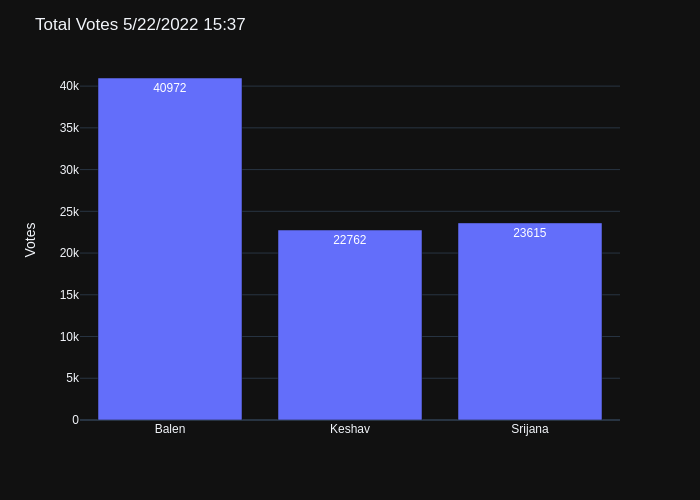
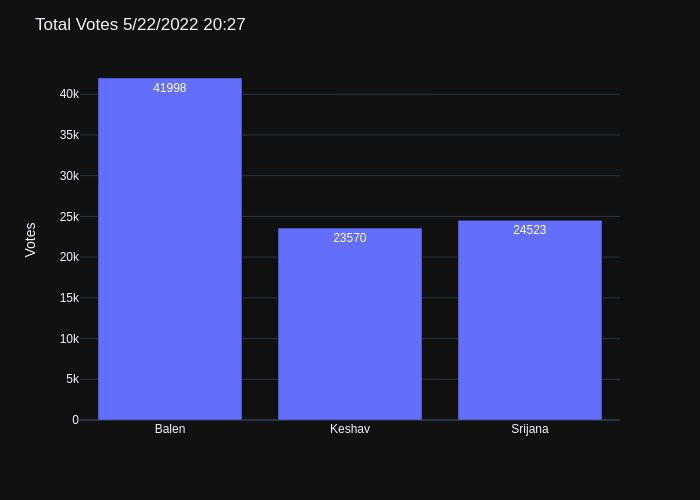
add data

diff --git a/README.md b/README.md
@@ -1,4 +1,4 @@
-## Last Update: 5/22/2022 15:37
+## Last Update: 5/22/2022 20:27
 
 ## Balen's Lead against Keshav Sthapit and Srijana Singh
 ![ScreenShot](final.jpg)
